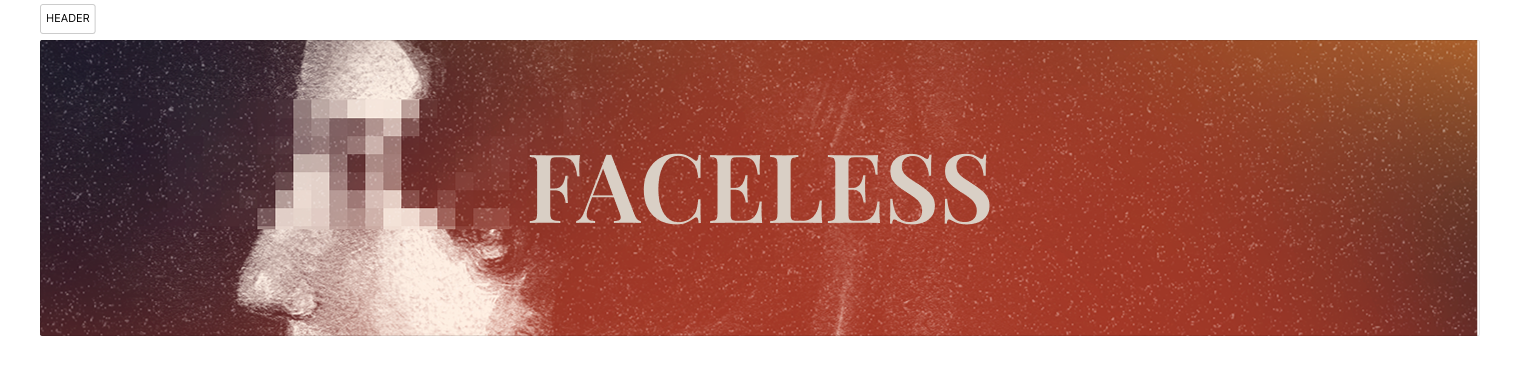
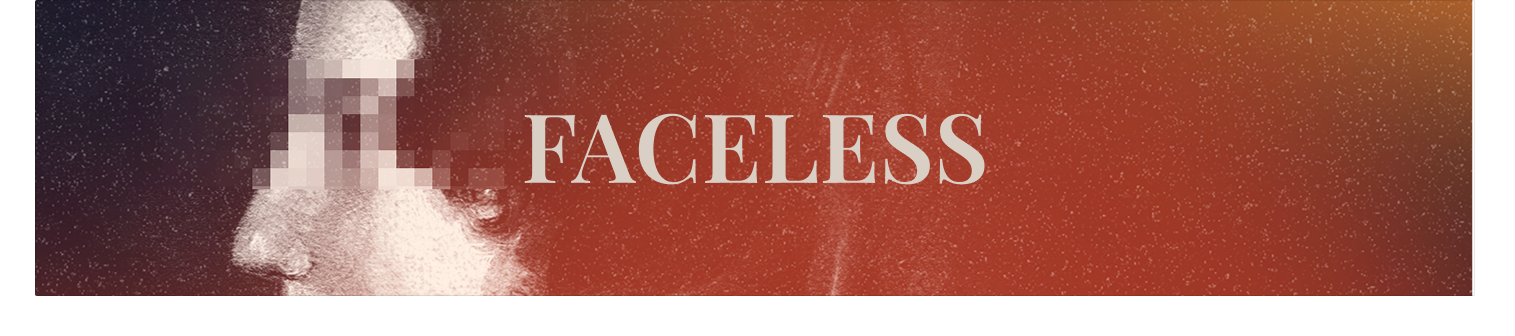
html end

diff --git a/index.html b/index.html
@@ -11,12 +11,14 @@
 
     <header>
         <nav class="navbar">
-        <div class="logo">LOGO</div>
-        <div class="nav-actions">Icons + Search</div>
+        <div class="logo"><img src="/Faceless/photos/Group 9.png" alt="Faceless logo"></div>
+        <div class="nav-actions"><img src="/Faceless//photos/Group 10.png" alt="icons"></div>
         </nav>
 
-        <div class="hero">FACELESS
-            <h1 class="hero-title">FACELESS</h1>
+        <div class="hero">
+            <img src="/Faceless/photos/HEADER.png" alt="Faceless logo" class="hero-image">
+        </div>
+            
         </div>
     </header>
 
@@ -37,27 +39,80 @@
             <div class="card">
             <div class=" card-inner">
             <div class="card-front">
-                <img src="1.jpg" alt="La Gaviota">
+                <img src="photos/card1.png" alt="La Gaviota">
             </div>
             <div class="card-back">
-                <h3>Cecilia Francisca Josefa Böhl</h3>
+                <h3><s>Fernán Caballero</s> <br>Cecilia Francisca Josefa Böhl</h3>
                 <p>Renowned for her traditional style and for introducing realism into 19th-century 
                 Spanish narratives, with works such as "La Gaviota" (1849) and "La familia de Alvareda" (1856).</p>
                 <button onclick="window.location.href='https://es.wikipedia.org/wiki/Fernán_Caballero'">More info</button>
             </div>
+            </div>
+            </div>
 
+                <!--card2-->
+            <div class="card">
+            <div class=" card-inner">
+            <div class="card-front">
+                <img src="photos/card2.png" alt="Wuthering heights">
+            </div>
+            <div class="card-back">
+                <h3><s>Currer, Ellis, y Acton Bell</s><br>
+                The Brontë sisters</h3>
+                <p>Considered one of the greatest exponents of 19th-century 
+                    Romanticism, famous for influential novels such as Jane Eyre (1847), 
+                    Wuthering Heights (1847), and Agnes Grey (1847).</p>
+                <button onclick="window.location.href='https://es.wikipedia.org/wiki/Poems_by_Currer,_Ellis,_and_Acton_Bell'">More info</button>
             </div>
             </div>
+            </div>
+
+            <!--card3-->
+            <div class="card">
+            <div class=" card-inner">
+            <div class="card-front">
+                <img src="photos/card3.png" alt="Ocaso y aurora">
+            </div>
+            <div class="card-back">
+                <h3><s>Rafael Luna</s> <br>Matilde Cherner</h3>
+                <p>Matilde Cherner was a Spanish writer and journalist. She was a woman of strong political convictions and a staunch federal republican.
+                Her most renowned work is María Magdalena (1880).</p>
+                <button onclick="window.location.href='https://es.wikipedia.org/wiki/Matilde_Cherner'">More info</button>
+            </div>
+            </div>
+            </div>
+
+            <!--card-->
+            <div class="card">
+            <div class=" card-inner">
+            <div class="card-front">
+                <img src="photos/card4.png" alt="Behind a mask or a woman power">
+            </div>
+            <div class="card-back">
+                <h3> <s>A. M. Bernard</s>
+                <br>Louisa May Alcott</h3>
+                <p>Louisa Alcott wrote short, sensationalist novels aimed at adults in the second half of the 19th century (being a true pioneer in the field),
+                such as Behind the Mask (1866) and The Ghost of Abbot (1867).</p>
+                <button onclick="window.location.href='https://es.wikipedia.org/wiki/Louisa_May_Alcott'">More info</button>
+            </div>
+            </div>
+            </div>
+
         </div>
         </section>
     </main>
 
     <footer class="site-footer">
         <div class="footer-grid">
-            <div>Logo + copy</div>
-            <div>Column1</div>
-            <div>Column2</div>
-            <div>Column3</div>
+            <div>Logo © Faceless 2023</div>
+            <div><h4>Discover</h4>  
+                <p>Mary-Anne <br> Evans Alice <br> B.Sheldon Karen Blixen</p>
+            </div>
+            <div><h4>Resources</h4> 
+                Wikipedia <br>Biblioteca Nacional de España (NME) <br>Karen Blixen
+            </div>
+            <div><h4>Connect with us</h4>X <br>Facebook <br>Instagram
+            </div>
         </div>
     </footer>
 
